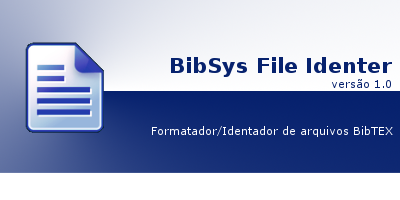
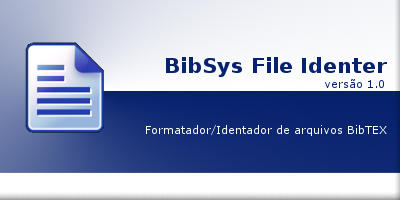
Versão Final

Changed region(s): [[0.39, 0.0, 1.0, 0.48], [0.0, 0.84, 1.0, 1.0], [0.36, 0.63, 0.99, 0.69]]

diff --git a/src/br/unesp/rc/utils/FrameInicial.java b/src/br/unesp/rc/utils/FrameInicial.java
@@ -15,6 +15,7 @@ import javax.swing.JOptionPane;
  */
 public class FrameInicial extends javax.swing.JFrame {
     private StringBuffer identedFile;
+    private String filelist = "NO FILE";
 
     /**
      * Creates new form FrameInicial
@@ -40,8 +41,11 @@ public class FrameInicial extends javax.swing.JFrame {
         jLabel1 = new javax.swing.JLabel();
         jSeparator1 = new javax.swing.JSeparator();
         label1 = new java.awt.Label();
-        label2 = new java.awt.Label();
         jLabel2 = new javax.swing.JLabel();
+        jScrollPane1 = new javax.swing.JScrollPane();
+        BibTextArea = new javax.swing.JTextArea();
+        jButton2 = new javax.swing.JButton();
+        jButton3 = new javax.swing.JButton();
         jMenuBar2 = new javax.swing.JMenuBar();
         jMenu3 = new javax.swing.JMenu();
         jMenuItem2 = new javax.swing.JMenuItem();
@@ -54,8 +58,10 @@ public class FrameInicial extends javax.swing.JFrame {
         jMenuBar1.add(jMenu2);
 
         setDefaultCloseOperation(javax.swing.WindowConstants.DISPOSE_ON_CLOSE);
+        setTitle("BibSys v1.0");
+        setResizable(false);
 
-        jButton1.setText("Converter .bib");
+        jButton1.setText("Abrir");
         jButton1.setToolTipText("");
         jButton1.addActionListener(new java.awt.event.ActionListener() {
             public void actionPerformed(java.awt.event.ActionEvent evt) {
@@ -69,11 +75,30 @@ public class FrameInicial extends javax.swing.JFrame {
         label1.setFont(new java.awt.Font("Dialog", 1, 12)); // NOI18N
         label1.setText("Input:");
 
-        label2.setFont(new java.awt.Font("Dialog", 1, 12)); // NOI18N
-        label2.setText("Output:");
-
         jLabel2.setText("...");
         jLabel2.setToolTipText("");
+
+        BibTextArea.setColumns(20);
+        BibTextArea.setRows(5);
+        BibTextArea.setEnabled(false);
+        jScrollPane1.setViewportView(BibTextArea);
+
+        jButton2.setText("Salvar");
+        jButton2.setToolTipText("");
+        jButton2.setEnabled(false);
+        jButton2.addActionListener(new java.awt.event.ActionListener() {
+            public void actionPerformed(java.awt.event.ActionEvent evt) {
+                jButton2ActionPerformed(evt);
+            }
+        });
+
+        jButton3.setText("Fechar");
+        jButton3.setEnabled(false);
+        jButton3.addActionListener(new java.awt.event.ActionListener() {
+            public void actionPerformed(java.awt.event.ActionEvent evt) {
+                jButton3ActionPerformed(evt);
+            }
+        });
 
         jMenu3.setText("Sistema");
 
@@ -104,43 +129,40 @@ public class FrameInicial extends javax.swing.JFrame {
             .addGroup(layout.createSequentialGroup()
                 .addContainerGap()
                 .addGroup(layout.createParallelGroup(javax.swing.GroupLayout.Alignment.LEADING)
+                    .addComponent(jScrollPane1)
                     .addGroup(layout.createSequentialGroup()
-                        .addGroup(layout.createParallelGroup(javax.swing.GroupLayout.Alignment.LEADING)
-                            .addGroup(layout.createSequentialGroup()
-                                .addComponent(jSeparator1, javax.swing.GroupLayout.DEFAULT_SIZE, 363, Short.MAX_VALUE)
-                                .addPreferredGap(javax.swing.LayoutStyle.ComponentPlacement.RELATED)
-                                .addComponent(jButton1))
-                            .addGroup(layout.createSequentialGroup()
-                                .addComponent(label1, javax.swing.GroupLayout.PREFERRED_SIZE, javax.swing.GroupLayout.DEFAULT_SIZE, javax.swing.GroupLayout.PREFERRED_SIZE)
-                                .addGap(0, 0, Short.MAX_VALUE)))
-                        .addContainerGap())
-                    .addGroup(layout.createSequentialGroup()
-                        .addGroup(layout.createParallelGroup(javax.swing.GroupLayout.Alignment.LEADING)
-                            .addComponent(label2, javax.swing.GroupLayout.PREFERRED_SIZE, javax.swing.GroupLayout.DEFAULT_SIZE, javax.swing.GroupLayout.PREFERRED_SIZE)
-                            .addGroup(layout.createSequentialGroup()
-                                .addGap(10, 10, 10)
-                                .addGroup(layout.createParallelGroup(javax.swing.GroupLayout.Alignment.LEADING)
-                                    .addComponent(jLabel1)
-                                    .addComponent(jLabel2))))
-                        .addGap(0, 0, Short.MAX_VALUE))))
+                        .addComponent(label1, javax.swing.GroupLayout.PREFERRED_SIZE, javax.swing.GroupLayout.DEFAULT_SIZE, javax.swing.GroupLayout.PREFERRED_SIZE)
+                        .addGap(2, 2, 2)
+                        .addComponent(jLabel1)
+                        .addPreferredGap(javax.swing.LayoutStyle.ComponentPlacement.RELATED, 592, Short.MAX_VALUE)
+                        .addComponent(jButton1)
+                        .addPreferredGap(javax.swing.LayoutStyle.ComponentPlacement.RELATED)
+                        .addComponent(jButton3))
+                    .addGroup(javax.swing.GroupLayout.Alignment.TRAILING, layout.createSequentialGroup()
+                        .addComponent(jLabel2)
+                        .addPreferredGap(javax.swing.LayoutStyle.ComponentPlacement.RELATED, javax.swing.GroupLayout.DEFAULT_SIZE, Short.MAX_VALUE)
+                        .addComponent(jButton2))
+                    .addComponent(jSeparator1))
+                .addContainerGap())
         );
         layout.setVerticalGroup(
             layout.createParallelGroup(javax.swing.GroupLayout.Alignment.LEADING)
             .addGroup(layout.createSequentialGroup()
                 .addContainerGap()
-                .addComponent(label1, javax.swing.GroupLayout.PREFERRED_SIZE, javax.swing.GroupLayout.DEFAULT_SIZE, javax.swing.GroupLayout.PREFERRED_SIZE)
-                .addPreferredGap(javax.swing.LayoutStyle.ComponentPlacement.RELATED)
-                .addGroup(layout.createParallelGroup(javax.swing.GroupLayout.Alignment.TRAILING)
+                .addGroup(layout.createParallelGroup(javax.swing.GroupLayout.Alignment.BASELINE)
                     .addComponent(jButton1)
-                    .addGroup(layout.createSequentialGroup()
-                        .addComponent(jLabel1)
-                        .addGap(18, 18, 18)
-                        .addComponent(jSeparator1, javax.swing.GroupLayout.PREFERRED_SIZE, 10, javax.swing.GroupLayout.PREFERRED_SIZE)))
-                .addGap(1, 1, 1)
-                .addComponent(label2, javax.swing.GroupLayout.PREFERRED_SIZE, javax.swing.GroupLayout.DEFAULT_SIZE, javax.swing.GroupLayout.PREFERRED_SIZE)
+                    .addComponent(jLabel1)
+                    .addComponent(label1, javax.swing.GroupLayout.PREFERRED_SIZE, javax.swing.GroupLayout.DEFAULT_SIZE, javax.swing.GroupLayout.PREFERRED_SIZE)
+                    .addComponent(jButton3))
                 .addPreferredGap(javax.swing.LayoutStyle.ComponentPlacement.RELATED)
-                .addComponent(jLabel2)
-                .addContainerGap(23, Short.MAX_VALUE))
+                .addComponent(jSeparator1, javax.swing.GroupLayout.PREFERRED_SIZE, 10, javax.swing.GroupLayout.PREFERRED_SIZE)
+                .addPreferredGap(javax.swing.LayoutStyle.ComponentPlacement.RELATED)
+                .addComponent(jScrollPane1, javax.swing.GroupLayout.DEFAULT_SIZE, 393, Short.MAX_VALUE)
+                .addGap(11, 11, 11)
+                .addGroup(layout.createParallelGroup(javax.swing.GroupLayout.Alignment.BASELINE)
+                    .addComponent(jButton2)
+                    .addComponent(jLabel2))
+                .addContainerGap())
         );
 
         pack();
@@ -156,7 +178,7 @@ public class FrameInicial extends javax.swing.JFrame {
         int option = chooser.showOpenDialog(FrameInicial.this);
         if (option == JFileChooser.APPROVE_OPTION) {
             File[] sf = chooser.getSelectedFiles();
-            String filelist = "nothing";
+            
             if (sf.length > 0) {
                 filelist = sf[0].getAbsolutePath();
             }
@@ -169,12 +191,12 @@ public class FrameInicial extends javax.swing.JFrame {
 
             identedFile = Identer.run(texto);
             
-            if(FileManager.salvar(filelist, identedFile)){
-                jLabel2.setText(filelist.replace(".bib", "") + "_output.bib");
-            }else{
-                jLabel2.setText("Erro ao tentar salvar o arquivo.");
-            }
+            BibTextArea.setText(identedFile.toString());
             
+            BibTextArea.setEnabled(true);
+            jButton2.setEnabled(true);
+            jButton3.setEnabled(true);
+            jLabel2.setText("...");
         } 
         /*else {
             jLabel1.setText("You canceled.");
@@ -195,6 +217,28 @@ public class FrameInicial extends javax.swing.JFrame {
                         + "Fellipe C. Corbano (fellipecorbano@gmail.com)\n"
                         + "Daniel F. Lucas (danielfelipelucas@gmail.com)\n\n");
     }//GEN-LAST:event_jMenu5MouseClicked
+
+    private void jButton2ActionPerformed(java.awt.event.ActionEvent evt) {//GEN-FIRST:event_jButton2ActionPerformed
+        if(!filelist.equals("NO FILE")){
+            if(FileManager.salvar(filelist, new StringBuffer(BibTextArea.getText()))){
+                jLabel2.setText("Arquivo salvo: " + filelist.replace(".bib", "") + "_output.bib");
+            }else{
+                jLabel2.setText("Erro ao tentar salvar o arquivo.");
+            }
+        }       
+    }//GEN-LAST:event_jButton2ActionPerformed
+
+    private void jButton3ActionPerformed(java.awt.event.ActionEvent evt) {//GEN-FIRST:event_jButton3ActionPerformed
+        
+        BibTextArea.setText("");
+        BibTextArea.setEnabled(false);
+        
+        jLabel1.setText("...");
+        jLabel2.setText("...");
+        
+        jButton2.setEnabled(false);
+        jButton3.setEnabled(false);
+    }//GEN-LAST:event_jButton3ActionPerformed
 
     /**
      * @param args the command line arguments
@@ -231,7 +275,10 @@ public class FrameInicial extends javax.swing.JFrame {
         });
     }
     // Variables declaration - do not modify//GEN-BEGIN:variables
+    private javax.swing.JTextArea BibTextArea;
     private javax.swing.JButton jButton1;
+    private javax.swing.JButton jButton2;
+    private javax.swing.JButton jButton3;
     private javax.swing.JFileChooser jFileChooser1;
     private javax.swing.JLabel jLabel1;
     private javax.swing.JLabel jLabel2;
@@ -242,8 +289,8 @@ public class FrameInicial extends javax.swing.JFrame {
     private javax.swing.JMenuBar jMenuBar1;
     private javax.swing.JMenuBar jMenuBar2;
     private javax.swing.JMenuItem jMenuItem2;
+    private javax.swing.JScrollPane jScrollPane1;
     private javax.swing.JSeparator jSeparator1;
     private java.awt.Label label1;
-    private java.awt.Label label2;
     // End of variables declaration//GEN-END:variables
 }
